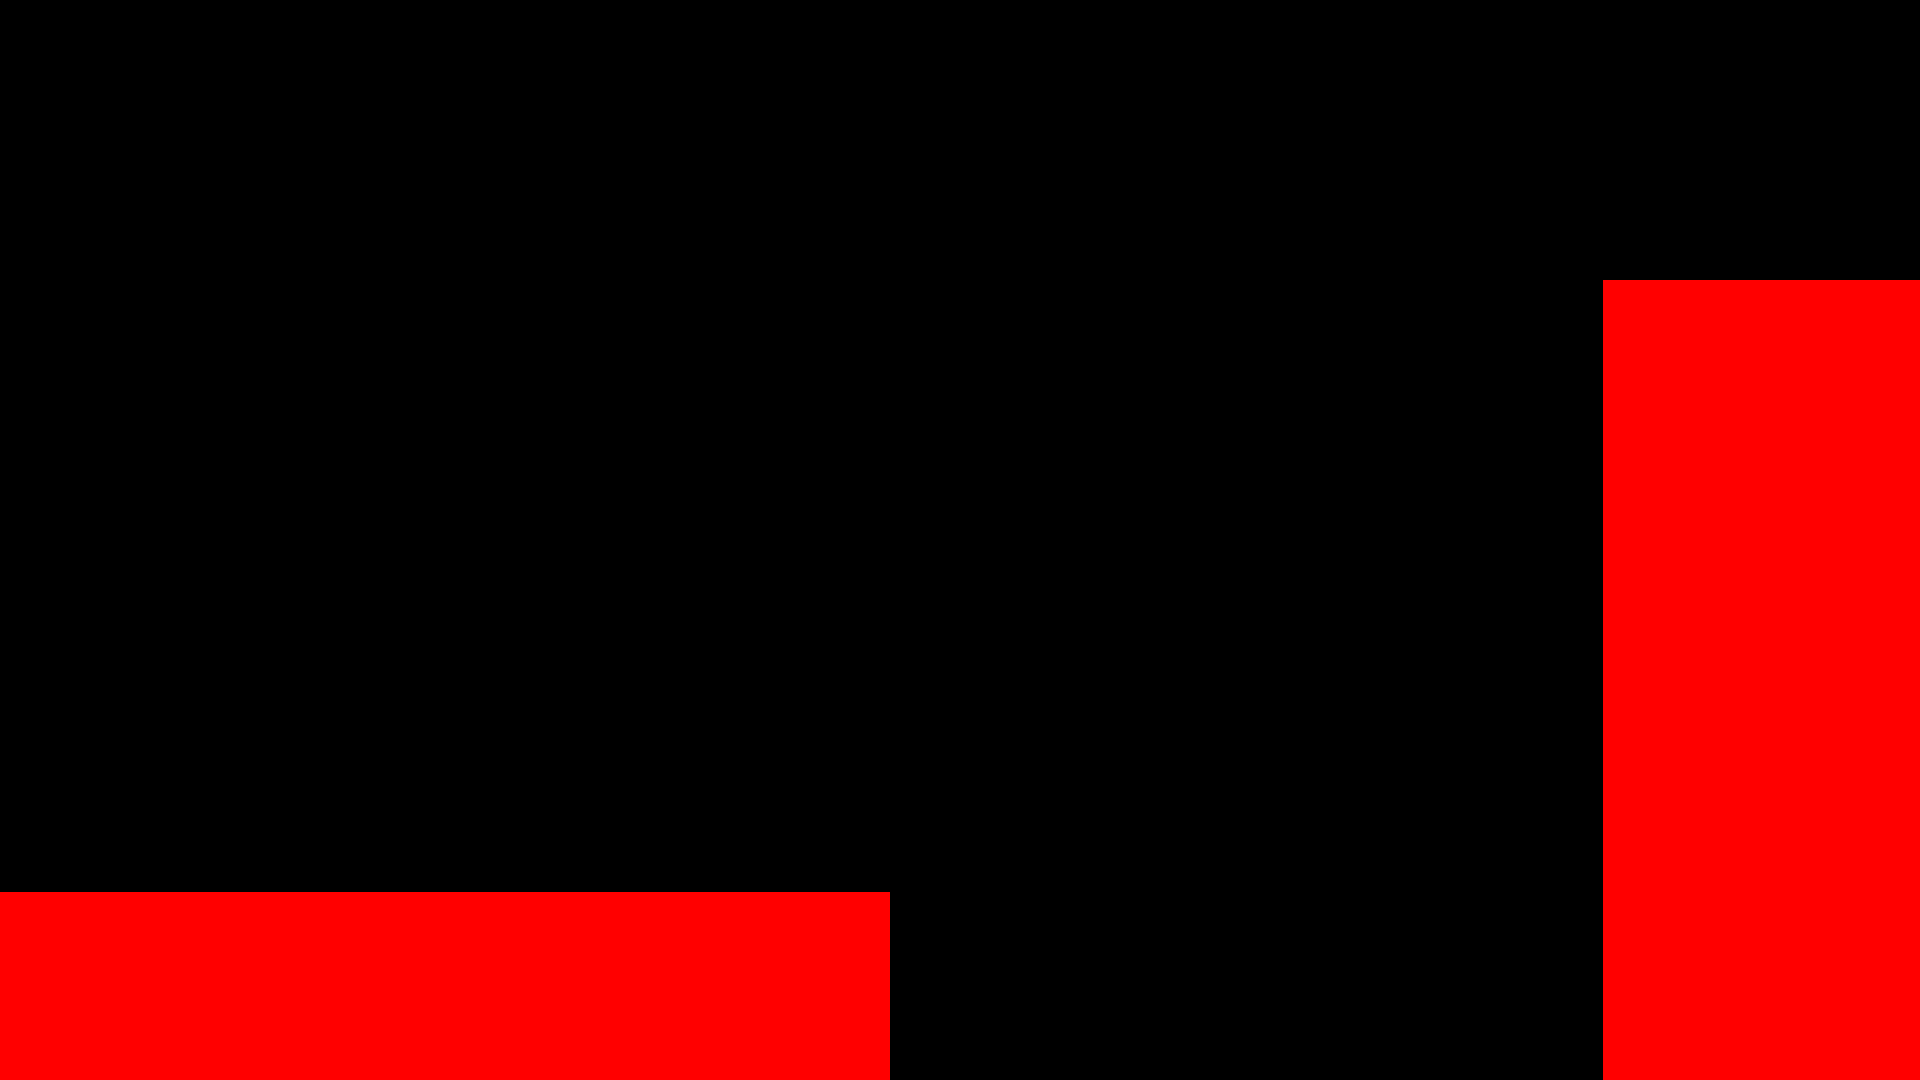
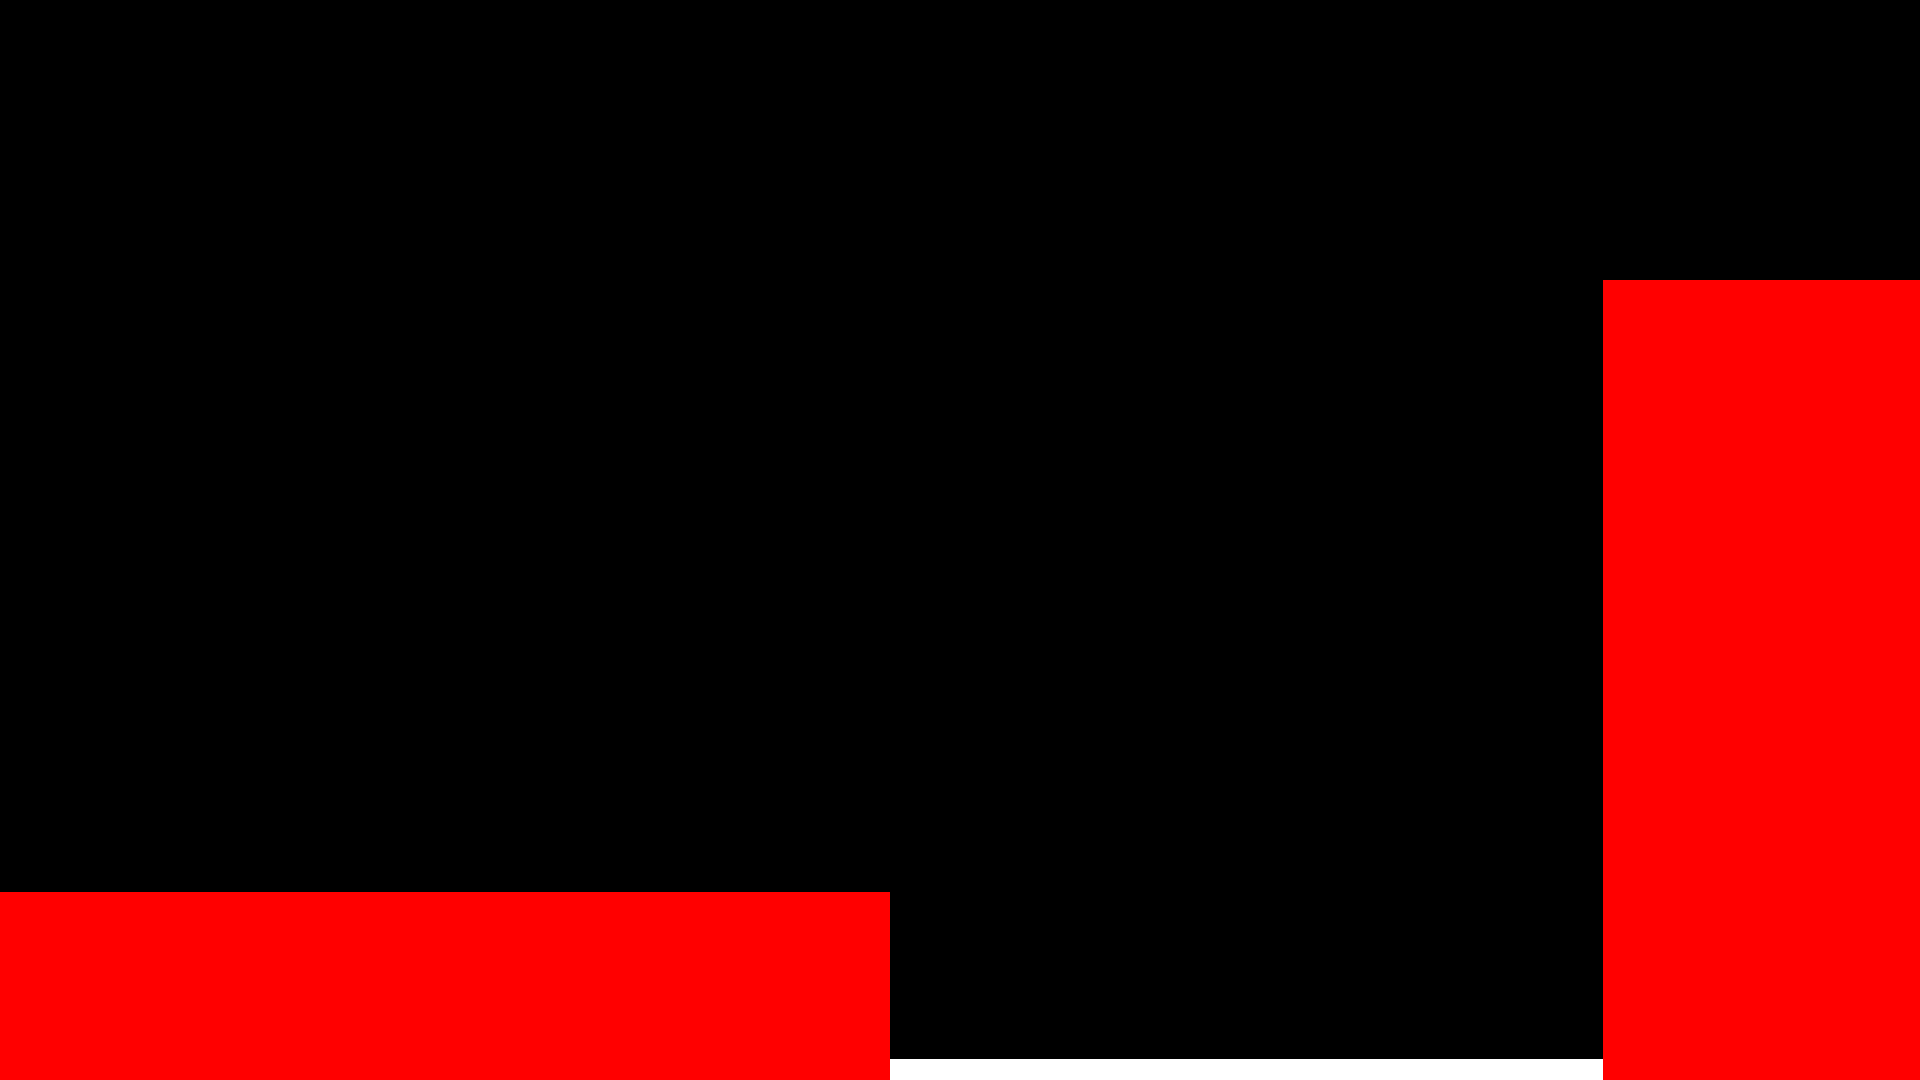
Add death collision (falling off the world/lava)

Changed region(s): [[0.4375, 0.9778, 0.8438, 1.0]]

diff --git a/src/Game/GameObjects/Entities/Entity.java b/src/Game/GameObjects/Entities/Entity.java
@@ -60,6 +60,10 @@ public abstract class Entity extends GameObject {
 
         onGround = collisionType == CollisionType.GROUND || collisionType == CollisionType.LADDER;
 
+        if(collisionType == CollisionType.DEATH) {
+            this.hurt((int) health + 1);
+        }
+
         if(collisionType == CollisionType.LADDER && velocityY <= 0) {
             Point feet = new Point(this.position);
             feet.translate(0, ((int) size.getHeight() / 2));

diff --git a/src/Game/Worlds/World.java b/src/Game/Worlds/World.java
@@ -214,6 +214,10 @@ public abstract class World implements KeyListener {
         boolean ladder = (colour & 0x0000FF00) != 0;
         boolean stairs = (colour & 0x000000FF) != 0;
 
+        if(ground && ladder && stairs) {
+            return CollisionType.DEATH;
+        }
+
         if(ground) {
             return CollisionType.GROUND;
         }

diff --git a/src/Game/Worlds/CollisionType.java b/src/Game/Worlds/CollisionType.java
@@ -1,5 +1,5 @@
 package Game.Worlds;
 
 public enum CollisionType {
-    NONE, GROUND, STAIRS, LADDER, PLATFORM
+    NONE, GROUND, STAIRS, LADDER, PLATFORM, DEATH
 }
